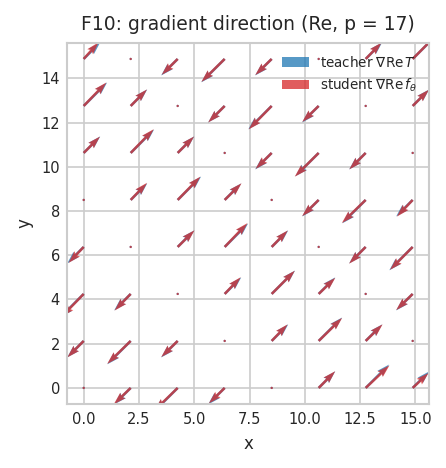
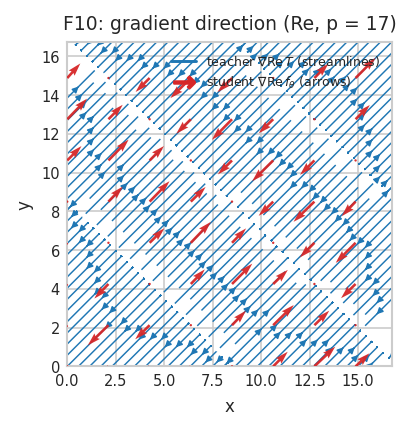
F10: streamplot teacher + quiver student so both are visible at smaller size
Single-panel render with teacher as background streamlines (rigid (1,1)
diagonal flow for this character teacher) and student as foreground red
arrows on an 8x8 subgrid. Figure shrunk to 3.0x3.0 in (450x450 px).
Cache .npz unchanged.

Fixes the prior issue where the student arrows occluded the teacher
arrows almost perfectly (because the student matches the teacher to
within ~4% on average, so red-on-blue overlap was complete).

diff --git a/ml/polys/workbook/surfaces/documentation/_export_figures.py b/ml/polys/workbook/surfaces/documentation/_export_figures.py
@@ -906,27 +906,44 @@ def compute_f10(no_recompute: bool) -> dict:
 
 
 def render_f10(plt, data: dict) -> Path:
+    from matplotlib.lines import Line2D
+
     xs, ys = data["xs"], data["ys"]
     p = int(data["p"][0])
+    XX, YY = np.meshgrid(xs, ys, indexing="ij")
+
+    gTx_T = data["grad_ReT_x"].T
+    gTy_T = data["grad_ReT_y"].T
+
     step = 8
-    Xc, Yc = np.meshgrid(xs[::step], ys[::step], indexing="ij")
-    gTx = data["grad_ReT_x"][::step, ::step]
-    gTy = data["grad_ReT_y"][::step, ::step]
+    Xc = XX[::step, ::step]
+    Yc = YY[::step, ::step]
     gFx = data["grad_Ref_x"][::step, ::step]
     gFy = data["grad_Ref_y"][::step, ::step]
 
-    fig, ax = plt.subplots(figsize=(3.5, 3.25))
-    ax.quiver(Xc, Yc, gTx, gTy, color=PALETTE["primary"], alpha=0.75,
-              label=r"teacher $\nabla \mathrm{Re}\,T$",
-              scale_units="xy", scale=0.35, width=0.007)
-    ax.quiver(Xc, Yc, gFx, gFy, color=PALETTE["quaternary"], alpha=0.75,
-              label=r"student $\nabla \mathrm{Re}\,f_\theta$",
-              scale_units="xy", scale=0.35, width=0.007)
+    fig, ax = plt.subplots(figsize=(3.0, 3.0))
+    ax.streamplot(xs, ys, gTx_T, gTy_T,
+                  color=PALETTE["primary"], density=1.0,
+                  linewidth=0.7, arrowsize=0.6)
+    ax.quiver(Xc, Yc, gFx, gFy, color=PALETTE["quaternary"], alpha=0.95,
+              scale_units="xy", scale=0.35, width=0.008,
+              zorder=3)
+
+    legend_handles = [
+        Line2D([0], [0], color=PALETTE["primary"], lw=1.4,
+               label=r"teacher $\nabla \mathrm{Re}\,T$ (streamlines)"),
+        Line2D([0], [0], color=PALETTE["quaternary"], lw=0,
+               marker=r"$\rightarrow$", markersize=10,
+               label=r"student $\nabla \mathrm{Re}\,f_\theta$ (arrows)"),
+    ]
+    ax.legend(handles=legend_handles, loc="upper right",
+              framealpha=0.92, fontsize=6)
     ax.set_xlabel("x", fontsize=8); ax.set_ylabel("y", fontsize=8)
     ax.tick_params(axis="both", labelsize=7)
     ax.set_aspect("equal", adjustable="box")
+    ax.set_xlim(float(xs.min()), float(xs.max()))
+    ax.set_ylim(float(ys.min()), float(ys.max()))
     ax.set_title(f"F10: gradient direction (Re, p = {p})", fontsize=9)
-    ax.legend(loc="upper right", framealpha=0.92, fontsize=6.5)
     fig.tight_layout()
     out = FIGURES_DIR / "f10_grad_quiver_p17.png"
     fig.savefig(out)

diff --git a/ml/polys/workbook/surfaces/documentation/00_commentary.md b/ml/polys/workbook/surfaces/documentation/00_commentary.md
@@ -67,7 +67,7 @@ F9 shows that the student's gradient *magnitude* tracks the teacher's; F10 shows
 
 ![F10: gradient direction overlay at p = 17](figures/f10_grad_quiver_p17.png)
 
-*F10 (Re channel, p = 17, canonical 32x64 baseline_siren, mesh subsampled to 8 x 8 = 64 arrows per layer): blue arrows are the analytic teacher gradient `nabla Re T`; red arrows are the student's autodiff gradient `nabla Re f_theta` rooted at the same lattice points. The teacher's diagonal-locked pattern is reproduced almost everywhere; the few visible red-blue divergences cluster at the same scattered points where F9's mismatch panel shows brighter spots. Direction matching is the qualitative companion to F9's magnitude matching: together they certify that the student tracks the teacher's full first-order differential geometry, not just its magnitude.*
+*F10 (Re channel, p = 17, canonical 32x64 baseline_siren): blue streamlines trace the analytic teacher gradient field `nabla Re T`, which is uniformly along the `(1, 1)` diagonal everywhere on the torus, so the streamlines come out as a perfectly parallel diagonal raster. Red arrows are the student's autodiff gradient `nabla Re f_theta` sampled on an 8 x 8 subgrid. The student arrows lie along the streamlines almost everywhere -- direction lock is inherited from the teacher under `H^2` distillation. Direction matching is the qualitative companion to F9's magnitude matching: together they certify that the student tracks the teacher's full first-order differential geometry, not just its magnitude.*
 
 **Training dynamics.** The Sobolev distillation has parallel supervision both at lattice nodes and at off-lattice mesh points. The OpenAI / Nanda grokking arc -- where train accuracy climbs to 1 quickly and test accuracy lags by thousands of steps before suddenly jumping -- is structurally absent in our setup, because the off-lattice mesh closes the train / test gap immediately. (We measured this: across the 28 + 9 + 3 + 9 cells of the four grokking notebooks, `gap = train_acc - hold_acc = 0.000` literally everywhere.) What survives is the *internal* arc -- the trunk slowly committing to Fourier features over training, visible in figure F5 (the excluded-loss curve at p = 8):
 